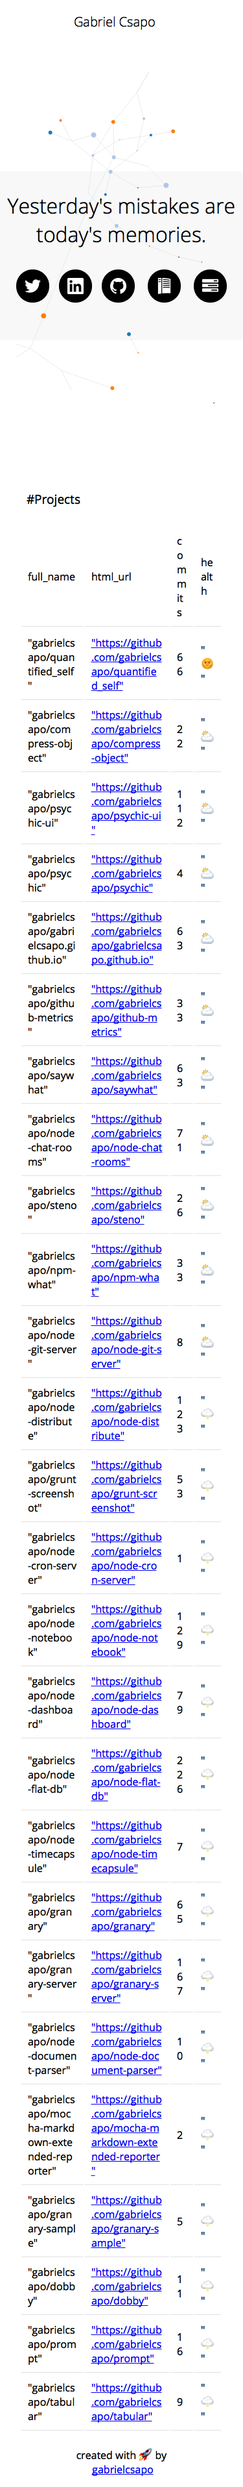
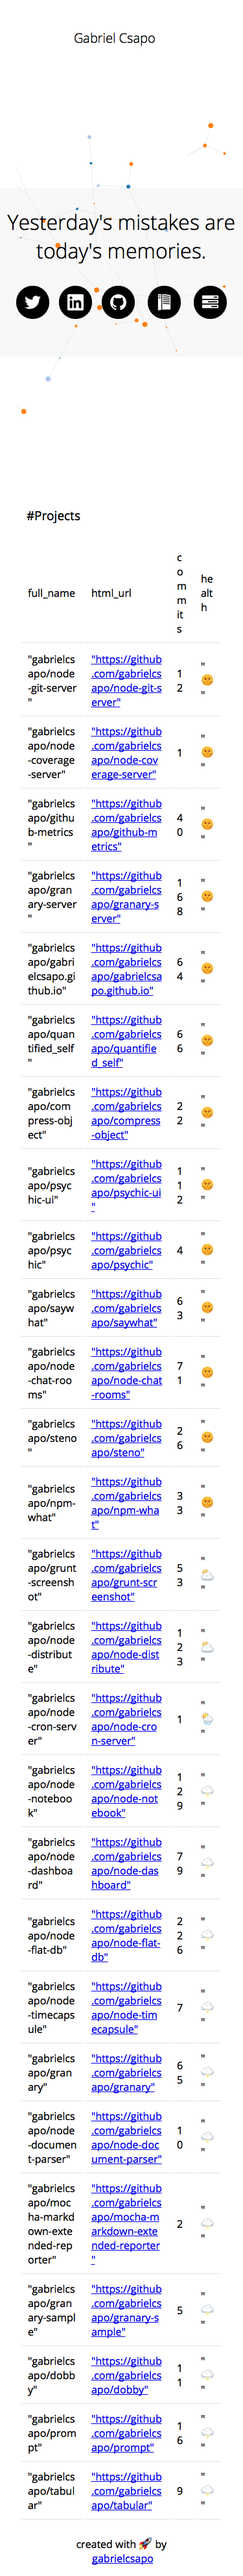
updates depends fixes Gruntfile to adhere to new interface for github-metrics fixes footer css updates github metrics part of site

diff --git a/index.html b/index.html
@@ -453,6 +453,10 @@ svg.directed-graph {
 .quote-container {
     z-index: 100;
 }
+.navbar {
+    padding-top:25px;
+    background-color: rgba(255, 255, 255, 1)
+}
 @media(max-width: 860) {
     .quote-container {
         height: 200px !important;
@@ -490,59 +494,67 @@ svg.directed-graph {
                   <tbody>
                     
                         <tr>
+                          <td>"gabrielcsapo/node-git-server"</td><td><a href="https://github.com/gabrielcsapo/node-git-server">"https://github.com/gabrielcsapo/node-git-server"</a></td><td>12</td><td>"🌞"</td>
+                        </tr>
+                      
+                        <tr>
+                          <td>"gabrielcsapo/node-coverage-server"</td><td><a href="https://github.com/gabrielcsapo/node-coverage-server">"https://github.com/gabrielcsapo/node-coverage-server"</a></td><td>1</td><td>"🌞"</td>
+                        </tr>
+                      
+                        <tr>
+                          <td>"gabrielcsapo/github-metrics"</td><td><a href="https://github.com/gabrielcsapo/github-metrics">"https://github.com/gabrielcsapo/github-metrics"</a></td><td>40</td><td>"🌞"</td>
+                        </tr>
+                      
+                        <tr>
+                          <td>"gabrielcsapo/granary-server"</td><td><a href="https://github.com/gabrielcsapo/granary-server">"https://github.com/gabrielcsapo/granary-server"</a></td><td>168</td><td>"🌞"</td>
+                        </tr>
+                      
+                        <tr>
+                          <td>"gabrielcsapo/gabrielcsapo.github.io"</td><td><a href="https://github.com/gabrielcsapo/gabrielcsapo.github.io">"https://github.com/gabrielcsapo/gabrielcsapo.github.io"</a></td><td>64</td><td>"🌞"</td>
+                        </tr>
+                      
+                        <tr>
                           <td>"gabrielcsapo/quantified_self"</td><td><a href="https://github.com/gabrielcsapo/quantified_self">"https://github.com/gabrielcsapo/quantified_self"</a></td><td>66</td><td>"🌞"</td>
                         </tr>
                       
                         <tr>
-                          <td>"gabrielcsapo/compress-object"</td><td><a href="https://github.com/gabrielcsapo/compress-object">"https://github.com/gabrielcsapo/compress-object"</a></td><td>22</td><td>"⛅"</td>
+                          <td>"gabrielcsapo/compress-object"</td><td><a href="https://github.com/gabrielcsapo/compress-object">"https://github.com/gabrielcsapo/compress-object"</a></td><td>22</td><td>"🌞"</td>
                         </tr>
                       
                         <tr>
-                          <td>"gabrielcsapo/psychic-ui"</td><td><a href="https://github.com/gabrielcsapo/psychic-ui">"https://github.com/gabrielcsapo/psychic-ui"</a></td><td>112</td><td>"⛅"</td>
+                          <td>"gabrielcsapo/psychic-ui"</td><td><a href="https://github.com/gabrielcsapo/psychic-ui">"https://github.com/gabrielcsapo/psychic-ui"</a></td><td>112</td><td>"🌞"</td>
                         </tr>
                       
                         <tr>
-                          <td>"gabrielcsapo/psychic"</td><td><a href="https://github.com/gabrielcsapo/psychic">"https://github.com/gabrielcsapo/psychic"</a></td><td>4</td><td>"⛅"</td>
+                          <td>"gabrielcsapo/psychic"</td><td><a href="https://github.com/gabrielcsapo/psychic">"https://github.com/gabrielcsapo/psychic"</a></td><td>4</td><td>"🌞"</td>
                         </tr>
                       
                         <tr>
-                          <td>"gabrielcsapo/gabrielcsapo.github.io"</td><td><a href="https://github.com/gabrielcsapo/gabrielcsapo.github.io">"https://github.com/gabrielcsapo/gabrielcsapo.github.io"</a></td><td>63</td><td>"⛅"</td>
+                          <td>"gabrielcsapo/saywhat"</td><td><a href="https://github.com/gabrielcsapo/saywhat">"https://github.com/gabrielcsapo/saywhat"</a></td><td>63</td><td>"🌞"</td>
                         </tr>
                       
                         <tr>
-                          <td>"gabrielcsapo/github-metrics"</td><td><a href="https://github.com/gabrielcsapo/github-metrics">"https://github.com/gabrielcsapo/github-metrics"</a></td><td>33</td><td>"⛅"</td>
+                          <td>"gabrielcsapo/node-chat-rooms"</td><td><a href="https://github.com/gabrielcsapo/node-chat-rooms">"https://github.com/gabrielcsapo/node-chat-rooms"</a></td><td>71</td><td>"🌞"</td>
                         </tr>
                       
                         <tr>
-                          <td>"gabrielcsapo/saywhat"</td><td><a href="https://github.com/gabrielcsapo/saywhat">"https://github.com/gabrielcsapo/saywhat"</a></td><td>63</td><td>"⛅"</td>
+                          <td>"gabrielcsapo/steno"</td><td><a href="https://github.com/gabrielcsapo/steno">"https://github.com/gabrielcsapo/steno"</a></td><td>26</td><td>"🌞"</td>
                         </tr>
                       
                         <tr>
-                          <td>"gabrielcsapo/node-chat-rooms"</td><td><a href="https://github.com/gabrielcsapo/node-chat-rooms">"https://github.com/gabrielcsapo/node-chat-rooms"</a></td><td>71</td><td>"⛅"</td>
+                          <td>"gabrielcsapo/npm-what"</td><td><a href="https://github.com/gabrielcsapo/npm-what">"https://github.com/gabrielcsapo/npm-what"</a></td><td>33</td><td>"🌞"</td>
                         </tr>
                       
                         <tr>
-                          <td>"gabrielcsapo/steno"</td><td><a href="https://github.com/gabrielcsapo/steno">"https://github.com/gabrielcsapo/steno"</a></td><td>26</td><td>"⛅"</td>
+                          <td>"gabrielcsapo/grunt-screenshot"</td><td><a href="https://github.com/gabrielcsapo/grunt-screenshot">"https://github.com/gabrielcsapo/grunt-screenshot"</a></td><td>53</td><td>"⛅"</td>
                         </tr>
                       
                         <tr>
-                          <td>"gabrielcsapo/npm-what"</td><td><a href="https://github.com/gabrielcsapo/npm-what">"https://github.com/gabrielcsapo/npm-what"</a></td><td>33</td><td>"⛅"</td>
+                          <td>"gabrielcsapo/node-distribute"</td><td><a href="https://github.com/gabrielcsapo/node-distribute">"https://github.com/gabrielcsapo/node-distribute"</a></td><td>123</td><td>"⛅"</td>
                         </tr>
                       
                         <tr>
-                          <td>"gabrielcsapo/node-git-server"</td><td><a href="https://github.com/gabrielcsapo/node-git-server">"https://github.com/gabrielcsapo/node-git-server"</a></td><td>8</td><td>"⛅"</td>
-                        </tr>
-                      
-                        <tr>
-                          <td>"gabrielcsapo/node-distribute"</td><td><a href="https://github.com/gabrielcsapo/node-distribute">"https://github.com/gabrielcsapo/node-distribute"</a></td><td>123</td><td>"🌩"</td>
-                        </tr>
-                      
-                        <tr>
-                          <td>"gabrielcsapo/grunt-screenshot"</td><td><a href="https://github.com/gabrielcsapo/grunt-screenshot">"https://github.com/gabrielcsapo/grunt-screenshot"</a></td><td>53</td><td>"🌩"</td>
-                        </tr>
-                      
-                        <tr>
-                          <td>"gabrielcsapo/node-cron-server"</td><td><a href="https://github.com/gabrielcsapo/node-cron-server">"https://github.com/gabrielcsapo/node-cron-server"</a></td><td>1</td><td>"🌩"</td>
+                          <td>"gabrielcsapo/node-cron-server"</td><td><a href="https://github.com/gabrielcsapo/node-cron-server">"https://github.com/gabrielcsapo/node-cron-server"</a></td><td>1</td><td>"🌦"</td>
                         </tr>
                       
                         <tr>
@@ -563,10 +575,6 @@ svg.directed-graph {
                       
                         <tr>
                           <td>"gabrielcsapo/granary"</td><td><a href="https://github.com/gabrielcsapo/granary">"https://github.com/gabrielcsapo/granary"</a></td><td>65</td><td>"🌩"</td>
-                        </tr>
-                      
-                        <tr>
-                          <td>"gabrielcsapo/granary-server"</td><td><a href="https://github.com/gabrielcsapo/granary-server">"https://github.com/gabrielcsapo/granary-server"</a></td><td>167</td><td>"🌩"</td>
                         </tr>
                       
                         <tr>

diff --git a/Gruntfile.js b/Gruntfile.js
@@ -37,7 +37,7 @@ module.exports = function(grunt) {
         },
         watch: {
             scripts: {
-                files: ['public/*.pug'],
+                files: ['public/*.pug', 'public/css/*.css', 'public/index.js'],
                 tasks: ['pug'],
                 options: {
                     spawn: true,
@@ -72,7 +72,9 @@ module.exports = function(grunt) {
             keys: ['full_name', 'commits', 'health', 'html_url', 'days_stagnant'],
             sort: 'days_stagnant',
             sortAsc: true
-        }, function(result) {
+        }, function(err, result) {
+            if(err) throw err;
+            
             var keys = [];
             var values = [];
 

diff --git a/public/css/index.css b/public/css/index.css
@@ -33,6 +33,10 @@ svg.directed-graph {
 .quote-container {
     z-index: 100;
 }
+.navbar {
+    padding-top:25px;
+    background-color: rgba(255, 255, 255, 1)
+}
 @media(max-width: 860) {
     .quote-container {
         height: 200px !important;
